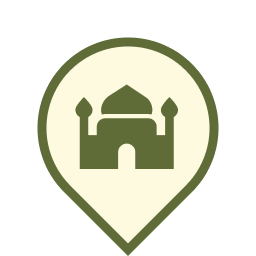
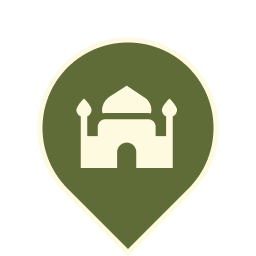
last update

diff --git a/App.js b/App.js
@@ -5,10 +5,13 @@ import MapView , {Callout, Marker}from 'react-native-maps';
 import * as Location from "expo-location";
 import  Icon  from "@expo/vector-icons/Ionicons"
 import WebView from 'react-native-webview';
+import MapViewDirections from "react-native-maps-directions"
 
-const mapTheme = [{"featureType":"all","elementType":"labels.text.fill","stylers":[{"color":"#ffffff"},{"visibility":"on"},{"saturation":0}]},{"featureType":"all","elementType":"labels.text.stroke","stylers":[{"color":"#596549"},{"visibility":"on"},{"saturation":0}]},{"featureType":"road","elementType":"geometry","stylers":[{"color":"#bdbf5f"},{"visibility":"on"},{"saturation":0}]},{"featureType":"landscape","elementType":"geometry","stylers":[{"color":"#818a60"},{"visibility":"on"},{"saturation":0}]},{"featureType":"poi","elementType":"geometry","stylers":[{"color":"#606c38"},{"visibility":"on"},{"saturation":0}]},{"featureType":"transit","elementType":"geometry","stylers":[{"color":"#596549"},{"visibility":"on"},{"saturation":0}]},{"featureType":"water","elementType":"","stylers":[{"color":"#a2b389"},{"visibility":"on"},{"saturation":0}]},{"featureType":"all","elementType":"labels.icon","stylers":[{"visibility":"on"}]},{"featureType":"all","elementType":"labels.text","stylers":[{"visibility":"on"}]},{"featureType":"all","elementType":"labels.text.stroke","stylers":[{"visibility":"on"}]}]
+import { SpecialScrollView, SpecialView } from 'react-native-scroll-to-element';
 
 
+
+const mapTheme = [{"featureType":"all","elementType":"labels.text.fill","stylers":[{"color":"#606c30"},{"visibility":"on"},{"saturation":0}]},{"featureType":"road","elementType":"geometry","stylers":[{"color":"#c4d09a"},{"visibility":"on"},{"saturation":0}]},{"featureType":"landscape","elementType":"geometry","stylers":[{"color":"#fefae0"},{"visibility":"on"},{"saturation":0}]},{"featureType":"poi","elementType":"geometry","stylers":[{"color":"#eeebd2"},{"visibility":"on"},{"saturation":0}]},{"featureType":"transit","elementType":"geometry","stylers":[{"color":"#eeebd2"},{"visibility":"on"},{"saturation":0}]},{"featureType":"water","elementType":"","stylers":[{"color":"#9099a2"},{"visibility":"on"},{"saturation":0}]},{"featureType":"all","elementType":"labels.icon","stylers":[{"visibility":"off"}]},{"featureType":"all","elementType":"labels.text.stroke","stylers":[{"visibility":"off"}]}]
 
 const mosques = [
   {
@@ -19,7 +22,12 @@ const mosques = [
       longitudeDelta:0.0421,
     },
     name:"Koutoubia",
-    img:"https://lh5.googleusercontent.com/p/AF1QipON_zhK7b4-bNGFN7rk1LLqsHxu025LWgidoTIN=w408-h244-k-no"
+    names:["koutoubia",'كتبية'],
+    img:"https://lh5.googleusercontent.com/p/AF1QipON_zhK7b4-bNGFN7rk1LLqsHxu025LWgidoTIN=w408-h244-k-no",
+    women:true,
+    friday:true,
+    id:0,
+    bathrooms:false,
   },
   {
     location:{
@@ -29,7 +37,11 @@ const mosques = [
       longitudeDelta:0.0421,
     },
     name:"Ben Youssef Mosque",
-    img:"https://lh5.googleusercontent.com/p/AF1QipMb84JafmzeAQwsSsBt6Xp_9k1DvM3WsCwBa_Mj=w408-h725-k-no"
+    img:"https://lh5.googleusercontent.com/p/AF1QipMb84JafmzeAQwsSsBt6Xp_9k1DvM3WsCwBa_Mj=w408-h725-k-no",
+    women:false,
+    id:1,
+    friday:true,
+    bathrooms:true,
   },
   {
     location:{
@@ -39,7 +51,39 @@ const mosques = [
       longitudeDelta:0.0421,
     },
     name:"Moulay el Yazid Mosque",
-    img:"https://lh5.googleusercontent.com/p/AF1QipONLhG9qQEOrGFza0NNuKtnqKE0rt0QIM5vs_Hp=w408-h306-k-no"
+    img:"https://lh5.googleusercontent.com/p/AF1QipONLhG9qQEOrGFza0NNuKtnqKE0rt0QIM5vs_Hp=w408-h306-k-no",
+    women:true,
+    id:2,
+    friday:false,
+    bathrooms:false,
+  },
+  {
+    location:{
+      latitude:31.555249128598337, 
+      longitude: -7.6871191294477885, 
+      latitudeDelta:0.0922,
+      longitudeDelta:0.0421,
+    },
+    name:"مسجد حي ايت منصور",
+    img:"https://maps.gstatic.com/tactile/pane/default_geocode-2x.png",
+    women:false,
+    id:3,
+    friday:false,
+    bathrooms:false,
+  },
+  {
+    location:{
+      latitude:31.56141570680596, 
+      longitude:  -7.670286834211737, 
+      latitudeDelta:0.0922,
+      longitudeDelta:0.0421,
+    },
+    name:"مسجد الغفران",
+    img:"https://lh5.googleusercontent.com/p/AF1QipOlMKGs3uH89hB9ivhV_TADjEO88B1gEh6C6kq9=w408-h544-k-no",
+    women:false,
+    id:4,
+    friday:false,
+    bathrooms:false,
   },
 ]
 
@@ -53,18 +97,28 @@ const mosques = [
   const [mapRegion,setMapRegion]= useState({
     latitude:37.78825,
     longitude:-122.4324,
-    latitudeDelta:0.0922,
-    longitudeDelta:0.0421,
+    latitudeDelta:2,
+    longitudeDelta:2,
   })
+
+
+
+  const [friday,setFriday]=useState(false);
+  const [women,setWomen]=useState(false);
+  const [bathrooms,setBathrooms]=useState(false);
+
+  const [selectedMosque,setSelectedMosque]=useState(null);
+
 
 
   const [openSearch,setOpenSearch]=useState(false)
   const [search,setSearch]=useState("")
   const _map = useRef(null);
-
+  const [filteredMosquesState,SetFilteredMosquesState]=useState(mosques)
 
   const userLocation = async ()=>{
     let {status } = await Location.requestForegroundPermissionsAsync();
+
     if(status!== "granted"){
       setErrorMsg("Permission to access location was denied")
     }
@@ -74,8 +128,8 @@ const mosques = [
     setMapRegion({
     latitude:location.coords.latitude,
     longitude:location.coords.longitude,
-    latitudeDelta:0.025,
-    longitudeDelta:0.025,
+    latitudeDelta:0.045,
+    longitudeDelta:0.045,
     })
   }
 
@@ -86,86 +140,124 @@ const mosques = [
     _map.current.animateToRegion(
       {
         ...coordinate,
-        latitudeDelta:0.005,
-        longitudeDelta:0.005,
+        latitudeDelta:0.018,
+        longitudeDelta:0.018,
       }
     )
   }
 
-
+  const gohome=()=>{
+    GoTo(mapRegion)
+  }
 
 
   useEffect(()=>{
     userLocation()
   },[])
+
+
   useEffect(()=>{
-    console.log(search)
-  },[search])
+    let final = mosques.filter(m=>m.name.toLocaleLowerCase().includes(search.toLocaleLowerCase()))
+    if (friday) {
+      final= final.filter(m=>m.friday)
+    }
+    if (women) {
+      final=final.filter(m=>m.women)
+    }
+    if (bathrooms) {
+      final=final.filter(m=>m.bathrooms)
+    }
+    SetFilteredMosquesState(final)
+    console.log("hi")
+    if(final&&search){
+      setSelectedMosque(final[0].id)
+      GoTo(final[0].location)
+    }
+  },[search,bathrooms,women,friday])
   return (
     <View  className="flex-1 bg-blue-200">
       <View className="absolute top-10  p-4 z-10 w-full flex-row justify-between">
 
         {
           !openSearch &&
-        <TouchableOpacity  onPress={()=>setOpenSearch(p=>!p)} className=" t.shadow2xl  w-10 h-10 mr-2 justify-center items-center rounded-full bg-[#e9f1ce] border border-white">
-          <Icon name={"search"} size={25} color={"#606C38"}></Icon>
+        <TouchableOpacity  onPress={()=>setOpenSearch(p=>!p)} className=" t.shadow2xl  w-10 h-10 mr-2 justify-center items-center rounded-full bg-[#606C38] ">
+          <Icon name={"search"} size={22} color={"#fff"}></Icon>
         </TouchableOpacity>
         }
 
         { openSearch &&
-        <View className="flex-row flex-1 bg-[#e9f1ce] border t.shadow2xl border-white items-center px-2 rounded-full ">
-          <TouchableOpacity onPress={()=>{setOpenSearch(p=>!p);setSearch("")}} className=" justify-center mr-2 items-center rounded-full ">
-            <Icon name={"arrow-back"} size={25} color={"#606C38"}></Icon>
+        <View style={{ elevation:4 }} className="flex-row flex-1 bg-white  t.shadow3xl  items-center  rounded-full ">
+          <TouchableOpacity onPress={()=>{setOpenSearch(p=>!p);setSearch("")}} className=" w-10 h-10 bg-[#606C38] justify-center mr-2 items-center rounded-full ">
+            <Icon name={"arrow-back"} size={22} color={"#fff"}></Icon>
           </TouchableOpacity>
-          <TextInput value={search} onChangeText={setSearch} placeholder='search a mosque' className="flex-1 h-full  pr-4  rounded-full "></TextInput>
+          <TextInput value={search} onChangeText={setSearch} placeholder='ابحث عن مسجد' className="text-black  flex-1 h-full  pr-4  rounded-full "></TextInput>
         </View>
         }
-        <TouchableOpacity className=" w-10 h-10 ml-2 justify-center items-center t.shadow2xl  rounded-full bg-[#e9f1ce] border border-white">
-          <Icon name="menu" size={25} color={"#606C38"}></Icon>
+        <TouchableOpacity className=" w-10 h-10 ml-2 justify-center items-center t.shadow2xl  rounded-full bg-[#606C38] ">
+          <Icon name="menu" size={22} color={"#fff"}></Icon>
         </TouchableOpacity>
       </View>
         {
           openSearch&&
 
-      <ScrollView horizontal className="absolute left-0 top-24   w-full py-2 flex-row  z-10">
+      <ScrollView horizontal  className="absolute left-0 top-24   w-full py-2 flex-row  z-10">
         <View className="w-3"></View>
-        <TouchableOpacity className=" mx-1 p-2 px-4 w-fit justify-center items-center rounded-full bg-[#545c3999] ">
-            <Text className="text-white">hello world</Text>
+        <TouchableOpacity onPress={()=>setFriday(p=>!p)} className=" mx-1 p-2 w-fit justify-center flex-row items-center rounded-full bg-[#545c39ee] ">
+            <Text className="text-white px-2">صلاة الجمعة</Text>
+            <Icon name={friday?"checkmark-circle-sharp":"ellipse-outline"} size={20} color={"#fff"}></Icon>
         </TouchableOpacity>
-        <TouchableOpacity className=" mx-1 p-2 px-4 w-fit justify-center items-center rounded-full bg-[#545c3999] ">
-            <Text className="text-white">hello world</Text>
+        <TouchableOpacity onPress={()=>setWomen(p=>!p)} className=" mx-1 p-2 w-fit justify-center flex-row items-center rounded-full bg-[#545c39ee] ">
+            <Text className="text-white px-2">مسجد نساء</Text>
+            <Icon name={women?"checkmark-circle-sharp":"ellipse-outline"} size={20} color={"#fff"}></Icon>
         </TouchableOpacity>
-        <TouchableOpacity className=" mx-1 p-2 px-4 w-fit justify-center items-center rounded-full bg-[#545c3999] ">
-            <Text className="text-white">hello world</Text>
+        <TouchableOpacity onPress={()=>setBathrooms(p=>!p)} className=" mx-1 p-2 w-fit justify-center flex-row items-center rounded-full bg-[#545c39ee] ">
+            <Text className="text-white px-2">دورات المياه</Text>
+            <Icon name={bathrooms?"checkmark-circle-sharp":"ellipse-outline"} size={20} color={"#fff"}></Icon>
         </TouchableOpacity>
-        <TouchableOpacity className=" mx-1 p-2 px-4 w-fit justify-center items-center rounded-full bg-[#545c3999] ">
-            <Text className="text-white">hello world</Text>
-        </TouchableOpacity>
-        <View className="w-3"></View>
       </ScrollView>
 
         }
 
-
-
-      <MapView ref={_map} customMapStyle={mapTheme} region={mapRegion}  className="flex-1 w-full" >
-        <Marker
-          coordinate={mapRegion}
-          title="Your location"
-        >
-          <Image className="w-[35px] h-[42px]" source={require("./assets/UserMarker.png")}/>
-        </Marker>
-        
+        <TouchableOpacity  onPress={()=>gohome()} style={{bottom:(openSearch?150:100)}} className={` absolute z-10  right-2 t.shadow2xl  w-10 h-10 mr-2 justify-center items-center rounded-full bg-[#606c38]  border border-white`}>
+          <Icon name={"locate-outline"} size={25} color={"#e9f1ce"}></Icon>
+        </TouchableOpacity>
 
         {
-          mosques.filter(m=>m.name.toLocaleLowerCase().includes(search.toLocaleLowerCase())).map((m,key)=>{
+          selectedMosque!=null &&
+          <TouchableOpacity   style={{bottom:(openSearch?194:145)}} className={` absolute z-10  right-2 t.shadow2xl  w-10 h-10 mr-2 justify-center items-center rounded-full bg-[#606c38]  border border-white`}>
+            <Icon name={"navigate"} size={22} color={"#e9f1ce"}></Icon>
+          </TouchableOpacity>
+        }
+
+      
+      <MapView onPress={()=>setSelectedMosque(null)} ref={_map} customMapStyle={mapTheme} region={mapRegion}  className="flex-1 w-full" >
+        
+
+        {/* <MapViewDirections
+            origin={{
+              latitude:37.78825,
+              longitude:-122.4324,
+              latitudeDelta:0.0922,
+              longitudeDelta:0.0421,
+            }}
+            destination={mapRegion}
+            apikey={}
+        ></MapViewDirections> */}
+
+        {
+          filteredMosquesState.map((m,key)=>{
             return (
               <Marker
                 key={key}
                 coordinate={m.location}
                 title={m.name}
+                onPress={()=>setSelectedMosque(m.id)}
               >
-                <Image className="w-[35px] h-[42px]" source={require("./assets/marker.png")}/>
+                {
+                    selectedMosque==m.id?
+                  <Image className="w-[35px] h-[42px] scale-110 -translate-y-1"  source={require("./assets/markerActive.png")}/>:
+                  <Image className="w-[35px] h-[42px]"  source={require("./assets/marker.png")}/>
+                }
                 <Callout className="h-fit w-[200px] rounded-xl">
                     <Text className="text-lg">{m.name}</Text>
                     <Text className="py-1 text-xs">{m.name}</Text>
@@ -183,21 +275,28 @@ const mosques = [
           })
         }
 
+        <Marker
+          coordinate={mapRegion}
+          title="Your location"
+          className="z-10"
+        >
+          <Image className="w-[35px] h-[42px] " source={require("./assets/UserMarker.png")}/>
+        </Marker>
 
 
       </MapView>
-      <StatusBar style="light" />
+      <StatusBar style="dark" />
       {
         !openSearch &&
       <View className="absolute w-full bottom-0 p-2">
-        <View className="bg-[#e9f1ce] border border-white flex-row justify-between p-3  rounded-2xl  ">
+        <View className="bg-[#606c38]  flex-row justify-between p-3  rounded-2xl  ">
           <View>
-            <Text className="text-3xl text-[#606C38] font-semibold">03:15</Text>
-            <Text className="text-lg text-[#606C38] font-semibold">00:15:20</Text>
+            <Text className="text-3xl text-[#e9f1ce] font-semibold">03:15</Text>
+            <Text className="text-lg text-[#e9f1ce] font-semibold">00:15:20</Text>
           </View>
           <View>
-            <Text className="text-3xl text-[#606C38] font-semibold">صلاة العصر</Text>
-            <Text className="text-lg text-[#606C38] font-semibold">باق على الاذان</Text>
+            <Text className="text-3xl text-[#e9f1ce] font-semibold">صلاة العصر</Text>
+            <Text className="text-lg text-[#e9f1ce] font-semibold">باق على الاذان</Text>
           </View>
         </View>
       </View>
@@ -206,21 +305,42 @@ const mosques = [
 
       {
         openSearch &&
-        <View className="  absolute bottom-0 w-full">
+
+        <View  style={{ elevation:4}} className="  absolute bottom-0 w-full pt-1 bg-white border-t border-[#3333]">
+          <View className="flex-row justify-between px-2 items-center">
+
+          <Text className="py-2 text-2xl font-semibold text-[#606c38]">{
+          filteredMosquesState.length>2?
+          filteredMosquesState.length +" مساجد":
+          filteredMosquesState.length==2?
+          "مسجدين":
+          filteredMosquesState.length==1?
+          "مسجد واحد":"لم يتم العثور على اي مسجد"
+
+          } </Text>
+                  {selectedMosque!=null &&
+              <View >
+                <TouchableOpacity className="p-3 flex-row-reverse items-center py-1 bg-[#606c3822] rounded-lg text-lg">
+                  <Text className="text-sm ml-2">
+                    {mosques.filter(m=>m.id==selectedMosque)[0]?.name}
+                  </Text>
+                  <Icon name="arrow-back"></Icon>
+                </TouchableOpacity>
+              </View>
+              }
+          </View>
+
         <ScrollView  horizontal className="w-full ">
           {
-            mosques.filter(m=>m.name.toLocaleLowerCase().includes(search.toLocaleLowerCase())).map((m,key)=>(
-              <TouchableOpacity onPress={()=>GoTo(m.location)} >
-                <View key={key} style={{ elevation:2 }} className="w-fit t.shadow2xl  bg-[#eff1e6] m-2 rounded-lg overflow-hidden mx-1">
-                  <Image className="h-[100px] object-contain w-[200px] " source={{uri:m.img}}/>
-                  <View className=" absolute top-[65px] left-1 bg-[#0004] rounded-md">
+            filteredMosquesState.map((m,key)=>(
+              <TouchableOpacity key={key} onPress={()=>{GoTo(m.location);setSelectedMosque(m.id)}} >
+                <View  style={{ elevation:m.id==selectedMosque?6:3,top:m.id==selectedMosque?-6:0}} className="w-fit t.shadow2xl border-red-800 relative bg-[#eff1e6] m-2 rounded-lg overflow-hidden mx-1">
+                  <Image className="h-[80px] object-contain w-[130px] " source={{uri:m.img}}/>
+                  <View className=" absolute top-[45px] left-1 bg-[#0006] rounded-md">
                     <Text numberOfLines={1} className="px-1 text-white max-w-[140px] ">{m.name}</Text>
                     <Text numberOfLines={1} className="px-1 text-white max-w-[140px] text-xs  ">{m.name}</Text>
                   </View>
                   {/* <View className="flex-row p-1 justify-end">
-                    <TouchableOpacity className="  mr-1 p-1 px-3 w-fit justify-center items-center rounded-full bg-[#545c3999] ">
-                      <Text className="text-white">Show Road</Text>
-                    </TouchableOpacity>
                     <TouchableOpacity className="  mr-1 p-1 px-3 w-fit justify-center items-center rounded-full bg-[#545c3999] ">
                       <Text className="text-white">Open</Text>
                     </TouchableOpacity>
